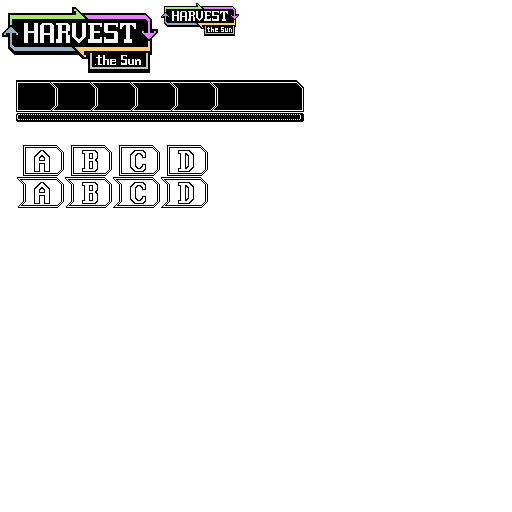
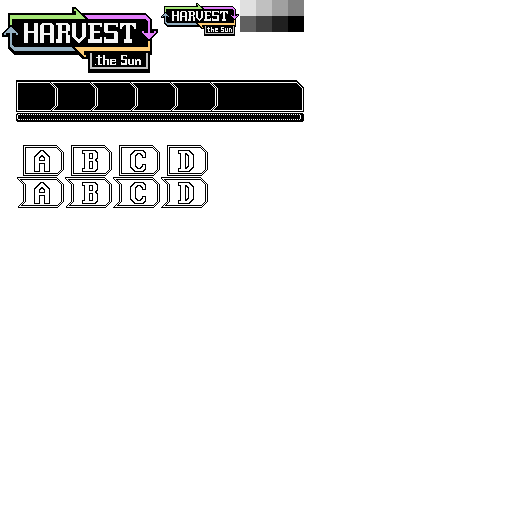
added basic dialog functionality

Changed region(s): [[0.4688, 0.0, 0.5938, 0.0625]]

diff --git a/src/game/dialog.py b/src/game/dialog.py
@@ -2,6 +2,14 @@ import src.game.ui as ui
 import src.game.const as const
 import src.game.spriteref as spriteref
 import src.engine.scenes as scenes
+import src.engine.sprites as sprites
+import src.engine.spritesheets as spritesheets
+import src.engine.renderengine as renderengine
+import src.game.colors as colors
+import src.engine.inputs as inputs
+import src.utils.util as util
+import src.game.globalstate as gs
+import configs
 
 
 class Speaker:
@@ -26,6 +34,18 @@ class DialogFragment:
         self.next_options.append((response, dialog_frag))
         return self
 
+    def get_next(self, answer):
+        for item in self.next_options:
+            if item[0] == answer:
+                return item[1]
+        return None
+
+    def get_next_by_idx(self, idx):
+        if 0 <= idx < len(self.next_options):
+            return self.next_options[idx][1]
+        else:
+            return None
+
     def get_speaker_sprites(self):
         if self.speaker_id is None:
             return []
@@ -47,34 +67,114 @@ def link(*frags):
 
 class DialogElement(ui.UiElement):
 
-    def __init__(self, dialog):
+    def __init__(self, dialog: DialogFragment):
         super().__init__()
         self.current_dialog = dialog
 
         self.current_dialog_ticks = 0
         self.selected_option = 0
 
+        self.bg_opacity = 0.85
+        self.bg_sprite = None
+
+        self.speaker_sprite = None
+        self.text_sprite = None
+
+        self.inset = 4
+
+    def _get_visible_text(self):
+        # TODO scrolling?
+        return self.current_dialog.text
+
+    def is_scrolling(self):
+        return False
+
+    def get_font(self):
+        return spritesheets.get_instance().get_sheet(spritesheets.DefaultFont.SHEET_ID)
+
+    def update_sprites(self):
+        xy = self.get_xy(absolute=True)
+        screen_size = renderengine.get_instance().get_game_size()
+        size = self.get_size()
+
+        if self.bg_sprite is None:
+            self.bg_sprite = sprites.ImageSprite.new_sprite(spriteref.UI_BG_LAYER, depth=10)
+        bg_model = spritesheets.get_instance().get_sheet(spritesheets.WhiteSquare.SHEET_ID).get_sprite(opacity=self.bg_opacity)
+        self.bg_sprite = self.bg_sprite.update(new_model=bg_model, new_x=xy[0], new_y=xy[1],
+                                               new_ratio=(size[0] / bg_model.width(), size[1] / bg_model.height()),
+                                               new_color=colors.PERFECT_BLACK)
+
+        if self.speaker_sprite is None:
+            self.speaker_sprite = sprites.ImageSprite.new_sprite(spriteref.UI_FG_LAYER)
+        speaker_id = self.current_dialog.speaker_id
+        all_sprites = spriteref.object_sheet().get_speaker_portrait_sprites(speaker_id)
+        speaker_img = all_sprites[gs.get_instance().anim_tick() // 8 % len(all_sprites)]
+
+        speaker_sc = 3
+        speaker_size = speaker_img.size(scale=speaker_sc)
+        self.speaker_sprite = self.speaker_sprite.update(new_model=speaker_img, new_x=xy[0] + self.inset,
+                                                         new_y=screen_size[1] - speaker_size[1],
+                                                         new_scale=speaker_sc)
+
+        text_xy = (xy[0] + speaker_size[0] + 2 * self.inset, xy[1] + self.inset)
+        text_size = ((xy[0] + size[0]) - text_xy[0] - self.inset, size[1] - 2 * self.inset)
+        visible_text = "\n".join(sprites.TextSprite.wrap_text_to_fit(self._get_visible_text(), text_size[0],
+                                                                     scale=1, font_lookup=self.get_font()))
+        if self.text_sprite is None:
+            self.text_sprite = sprites.TextSprite(spriteref.UI_FG_LAYER, 0, 0, "blah", font_lookup=self.get_font())
+        self.text_sprite.update(new_x=text_xy[0], new_y=text_xy[1], new_text=visible_text)
+
     def update(self):
-        pass
+        if inputs.get_instance().was_pressed((const.MENU_ACCEPT, const.JUMP, const.MENU_CANCEL)):
+            if self.is_scrolling():
+                if self.current_dialog_ticks > 5:
+                    self.current_dialog_ticks = 10000  # scroll to end
+            else:
+                self.go_to_next_dialog()
+
+    def go_to_next_dialog(self):
+        next = self.current_dialog.get_next_by_idx(self.selected_option)  # could be None
+        self.selected_option = 0
+        self.current_dialog_ticks = 0
+        self.current_dialog = next
+
+    def get_xy(self, absolute=False):
+        size = self.get_size()
+        screen_size = renderengine.get_instance().get_game_size()
+        return [0, screen_size[1] - size[1]]
 
     def get_size(self):
-        pass
+        screen_size = renderengine.get_instance().get_game_size()
+        return [screen_size[0], screen_size[1] // 3]
+
+    def all_sprites(self):
+        yield self.bg_sprite
+        yield self.speaker_sprite
+        yield self.text_sprite
 
 
 class DialogManager:
 
     def __init__(self):
-        self.active_dialog: DialogFragment = None
         self._ui: DialogElement = None
 
     def set_dialog(self, dialog_frag: DialogFragment):
-        self.active_dialog = dialog_frag
+        print("INFO: starting dialog {}".format(dialog_frag))
+        if dialog_frag is not None:
+            self._ui = DialogElement(dialog_frag)
+        else:
+            self._ui = None
 
     def update_sprites(self):
-        pass
+        if self._ui is not None:
+            self._ui.update_sprites()
 
     def update(self):
-        pass
+        if self._ui is not None:
+            self._ui.update_self_and_kids()
+
+        if self._ui is not None and self._ui.current_dialog is None:
+            self._ui = None
 
     def get_ui(self) -> DialogElement:
         return self._ui
@@ -87,7 +187,7 @@ class DialogManager:
             return []
 
     def is_active(self):
-        return self.active_dialog is not None
+        return self._ui is not None
 
 
 class DialogScene(scenes.Scene):
@@ -99,7 +199,7 @@ class DialogScene(scenes.Scene):
 
     def update_sprites(self):
         if self.dialog_manager.is_active():
-            self.update_sprites()
+            self.dialog_manager.update_sprites()
 
     def start_dialog(self, dialog_frag: DialogFragment):
         self.dialog_manager.set_dialog(dialog_frag)
@@ -121,6 +221,11 @@ class DialogScene(scenes.Scene):
             # only update the underlying scene if dialog is inactive.
             self.update_impl()
 
+        if configs.is_dev:
+            import pygame
+            if inputs.get_instance().was_pressed(pygame.K_F6):
+                self.dialog_manager.set_dialog(get_test_dialog())
+
     def update_impl(self):
         raise NotImplementedError()
 
@@ -133,6 +238,6 @@ class DialogScene(scenes.Scene):
 def get_test_dialog():
     return link(DialogFragment("Here's some test text.", speaker=Speaker.A),
                 DialogFragment("And here's a test reply.", speaker=Speaker.B),
-                DialogFragment("Dialog adds a lot of life to a game, don't you think?", speaker=Speaker.C),
+                DialogFragment("Dialog adds a lot of life to a game, don't you think? I'm just going to add a bit more text here to extend the length to make it wrap. The Glitch Mob is a great band don't you think?", speaker=Speaker.C),
                 DialogFragment("Life?", speaker=Speaker.D),
                 DialogFragment("Err... life-mimicking CPU cycles, I mean.", speaker=Speaker.C))

diff --git a/src/engine/inputs.py b/src/engine/inputs.py
@@ -77,8 +77,13 @@ class InputState:
             return any(map(lambda k: self.is_held(k), key))
         elif isinstance(key, keybinds.Binding):
             return key.is_held(self)
-        else:
+        elif isinstance(key, int):
             return key in self._held_keys
+        elif isinstance(key, str):
+            binding = keybinds.get_instance().get_binding(key)
+            return binding is not None and binding.is_held(self)
+        else:
+            raise ValueError("Unrecognized key type: {}".format(key))
     
     def time_held(self, key):
         """:param key - Binding, single key, or list of keys"""
@@ -86,24 +91,34 @@ class InputState:
             return max(map(lambda k: self.time_held(k), key))
         elif isinstance(key, keybinds.Binding):
             return key.time_held(self)
-        else:
+        elif isinstance(key, int):
             if key not in self._held_keys:
                 return -1
             else:
                 return self._current_time - self._held_keys[key]
+        elif isinstance(key, str):
+            binding = keybinds.get_instance().get_binding(key)
+            return binding is not None and binding.time_held(self)
+        else:
+            raise ValueError("Unrecognized key type: {}".format(key))
 
     def was_pressed(self, key):
-        """:param key - Binding, single key, or list of keys"""
+        """:param key - Binding, single key, the id of a binding, or a list/tuple of any of these"""
         if isinstance(key, list) or isinstance(key, tuple):
             for k in key:
-                if k in self._pressed_this_frame and self._pressed_this_frame[k] > 0:
+                if self.was_pressed(k):
                     return True
             return False
         elif isinstance(key, keybinds.Binding):
             return key.was_pressed(self)
-        else:
+        elif isinstance(key, int):
             # it's a single key, hopefully
             return key in self._pressed_this_frame and self._pressed_this_frame[key] > 0
+        elif isinstance(key, str):
+            binding = keybinds.get_instance().get_binding(key)
+            return binding is not None and binding.was_pressed(self)
+        else:
+            raise ValueError("Unrecognized key type: {}".format(key))
 
     def was_pressed_or_held_and_repeated(self, key, delay=configs.key_repeat_delay, freq=configs.key_repeat_period):
         if self.was_pressed(key):

diff --git a/src/game/spriteref.py b/src/game/spriteref.py
@@ -278,11 +278,11 @@ class _ObjectSheet(spritesheets.SpriteSheet):
         self.player_broken_pieces[const.PLAYER_HEAVY] = self._handle_rotated_player_pieces([624, 64, 8, 8], 8, 8, atlas, start_pos)
         self.player_broken_pieces[const.PLAYER_FLYING] = self._handle_rotated_player_pieces([624, 96, 8, 8], 6, 8, atlas, start_pos)
 
-        self.speaker_portraits[const.PLAYER_FAST] = [_img(176, 392 + i * 32, 24, 32) for i in range(0, 2)]
-        self.speaker_portraits[const.PLAYER_SMALL] = [_img(176 + 24, 392 + i * 32, 24, 32) for i in range(0, 2)]
-        self.speaker_portraits[const.PLAYER_HEAVY] = [_img(176 + 24 * 2, 392 + i * 32, 24, 32) for i in range(0, 2)]
+        self.speaker_portraits[const.PLAYER_FAST] = [_img(176, 392 + i * 32, 24, 32, offs=start_pos) for i in range(0, 2)]
+        self.speaker_portraits[const.PLAYER_SMALL] = [_img(176 + 24, 392 + i * 32, 24, 32, offs=start_pos) for i in range(0, 2)]
+        self.speaker_portraits[const.PLAYER_HEAVY] = [_img(176 + 24 * 2, 392 + i * 32, 24, 32, offs=start_pos) for i in range(0, 2)]
         player_d_portrait_width = 25  # needed another pixel, sue me~
-        self.speaker_portraits[const.PLAYER_FLYING] = [_img(176 + 24 * 3, 392 + i * 32, player_d_portrait_width, 32) for i in range(0, 2)]
+        self.speaker_portraits[const.PLAYER_FLYING] = [_img(176 + 24 * 3, 392 + i * 32, player_d_portrait_width, 32, offs=start_pos) for i in range(0, 2)]
 
         temp = self._handle_rotated_player_pieces([624, 128, 8, 8], 2, 8, atlas, start_pos)
         self.thin_block_broken_pieces_horz = temp[0]
@@ -527,6 +527,9 @@ class _UiSheet(spritesheets.SpriteSheet):
         self._character_card_animations = {}    # (boolean first, boolean: last) -> list of ImageModel
         self._character_card_anim_done = None
 
+        self.translucent_squares = []
+        self.translucent_pixels = []
+
     def get_size(self, img_size):
         size = super().get_size(img_size)
         bar_size = _UiSheet.N_PROGRESS_BARS * 6
@@ -575,6 +578,8 @@ class _UiSheet(spritesheets.SpriteSheet):
                              decay_chance_provider=lambda frm_idx, xy: 0.1 - (0.08 * frm_idx / n_frames))
         for r in rects_drawn:
             self.top_panel_progress_bars.append(_img(r[0], r[1], r[2], r[3], offs=(0, 0)))
+
+
 
     def get_character_card_sprite(self, player_type, is_first):
         return self._character_cards[(player_type.get_id(), is_first)]

diff --git a/src/game/menus.py b/src/game/menus.py
@@ -732,6 +732,7 @@ class RealGameScene(_BaseGameScene, dialog.DialogScene):
         """
         self._state = _GameState(bp)
 
+        # babby's first attempt at multiple inheritance
         _BaseGameScene.__init__(self)
         dialog.DialogScene.__init__(self)
 
@@ -757,11 +758,12 @@ class RealGameScene(_BaseGameScene, dialog.DialogScene):
             self._on_level_exit()
 
     def update_sprites(self):
-        super().update_sprites()
+        _BaseGameScene.update_sprites(self)
+        dialog.DialogScene.update_sprites(self)
         self._update_ui()
 
     def update(self):
-        dialog.DialogScene.update(self)  # babby's first attempt at multiple inheritance
+        dialog.DialogScene.update(self)
 
     def update_impl(self):
         if self._queued_next_world is not None:
@@ -902,7 +904,9 @@ class RealGameScene(_BaseGameScene, dialog.DialogScene):
         self._progress_bar_ui.update()
 
     def all_sprites(self):
-        for spr in super().all_sprites():
+        for spr in _BaseGameScene.all_sprites(self):
+            yield spr
+        for spr in dialog.DialogScene.all_sprites(self):
             yield spr
         if self._top_panel_ui is not None:
             for spr in self._top_panel_ui.all_sprites():

diff --git a/src/engine/keybinds.py b/src/engine/keybinds.py
@@ -33,6 +33,12 @@ class KeyBindings:
             keylist = util.listify(binding)
             self._binds[action_code] = Binding(keylist)
 
+    def get_binding(self, action_code):
+        if action_code in self._binds:
+            return self._binds[action_code]
+        else:
+            return None
+
     def set_global_action(self, key, name, action):
         if action is None:
             if key in self._global_bindings:

diff --git a/src/engine/spritesheets.py b/src/engine/spritesheets.py
@@ -256,7 +256,7 @@ class SpriteAtlas:
     def add_sheet(self, sheet):
         self._sheets[sheet.get_sheet_id()] = sheet
 
-    def get_sheet(self, sheet_id):
+    def get_sheet(self, sheet_id) -> SpriteSheet:
         if sheet_id in self._sheets:
             return self._sheets[sheet_id]
         else:

diff --git a/src/engine/sprites.py b/src/engine/sprites.py
@@ -351,8 +351,8 @@ class ImageModel:
     def rect(self):
         return self._rect
         
-    def size(self):
-        return (self.w, self.h)
+    def size(self, scale=1):
+        return (self.w * scale, self.h * scale)
         
     def width(self):
         return self.w

diff --git a/src/game/globalstate.py b/src/game/globalstate.py
@@ -1,5 +1,4 @@
 import src.engine.globaltimer as globaltimer
-import src.game.dialog as dialog
 
 
 class SaveAndLoadJsonBlob:

diff --git a/README.md b/README.md
@@ -3,6 +3,8 @@ A platformer about robots.
 
 Here are the five most recent gifs committed:
 
+![094-dialog.gif](gifs/094-dialog.gif?raw=true "094-dialog")
+
 ![093-falling-blocks.gif](gifs/093-falling-blocks.gif?raw=true "093-falling-blocks")
 
 ![093-cinematics.gif](gifs/093-cinematics.gif?raw=true "093-cinematics")
@@ -10,5 +12,3 @@ Here are the five most recent gifs committed:
 ![092-overworld-transitions.gif](gifs/092-overworld-transitions.gif?raw=true "092-overworld-transitions")
 
 ![091-level-previews.gif](gifs/091-level-previews.gif?raw=true "091-level-previews")
-
-![090-multi-overworld.gif](gifs/090-multi-overworld.gif?raw=true "090-multi-overworld")
